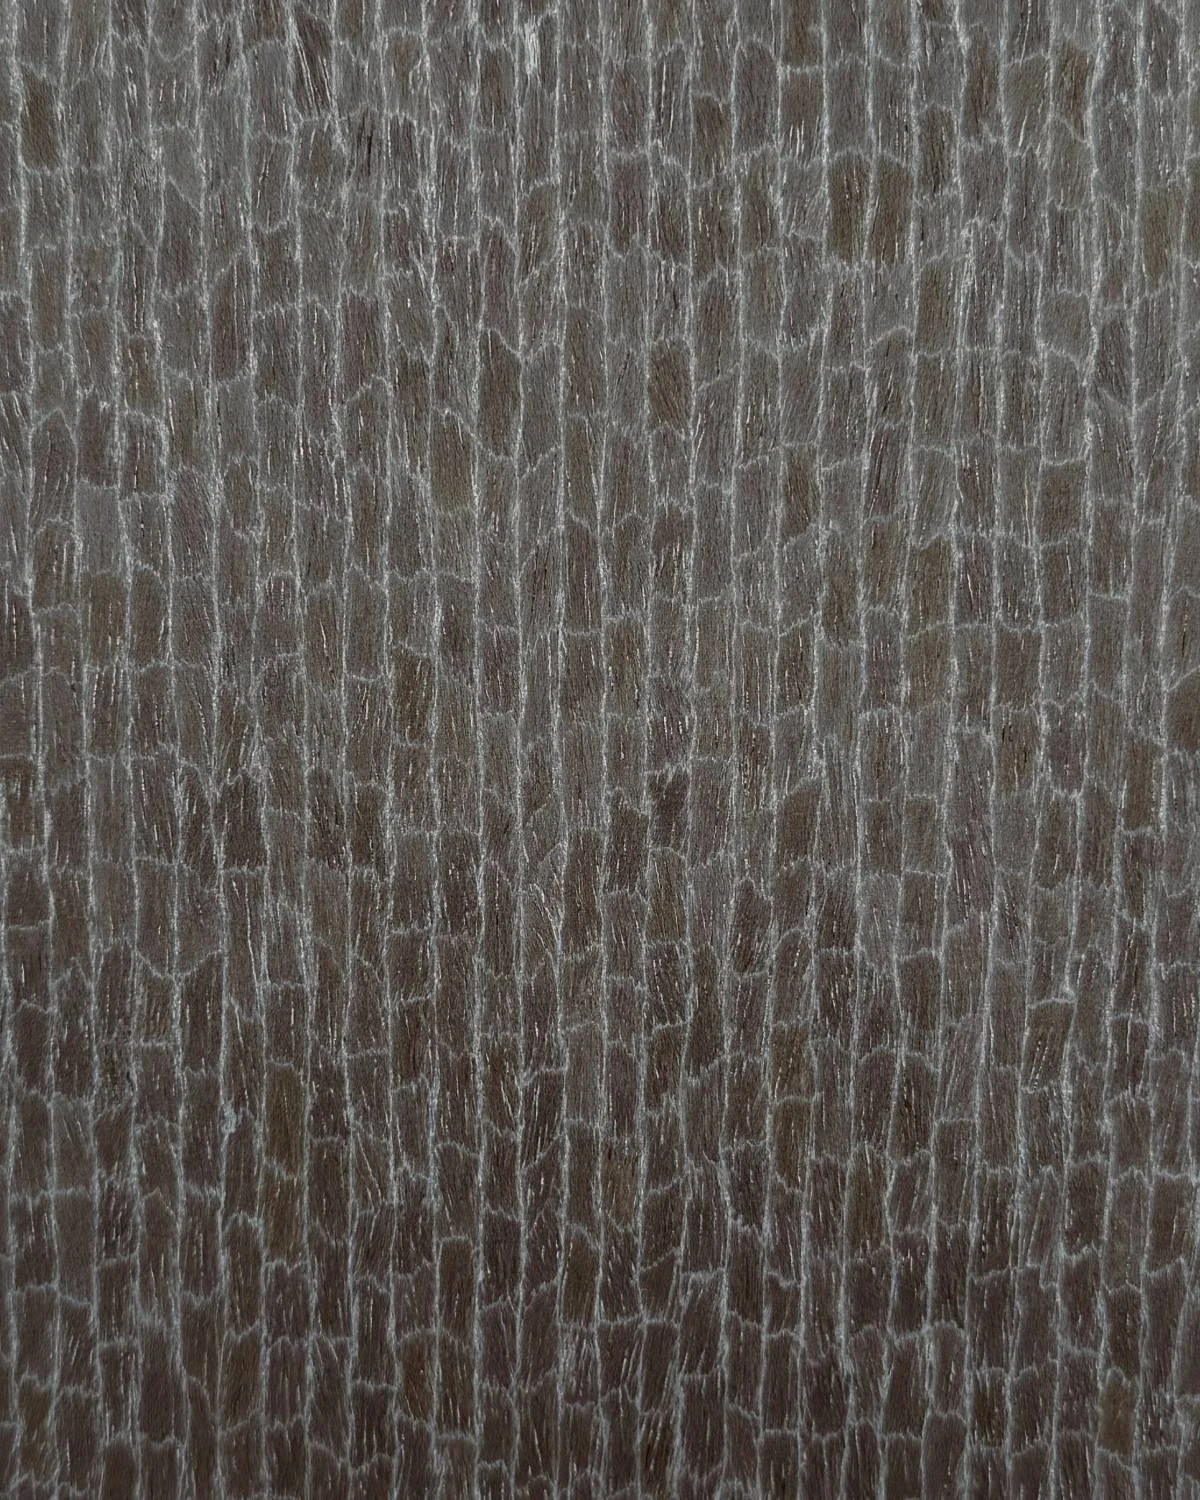
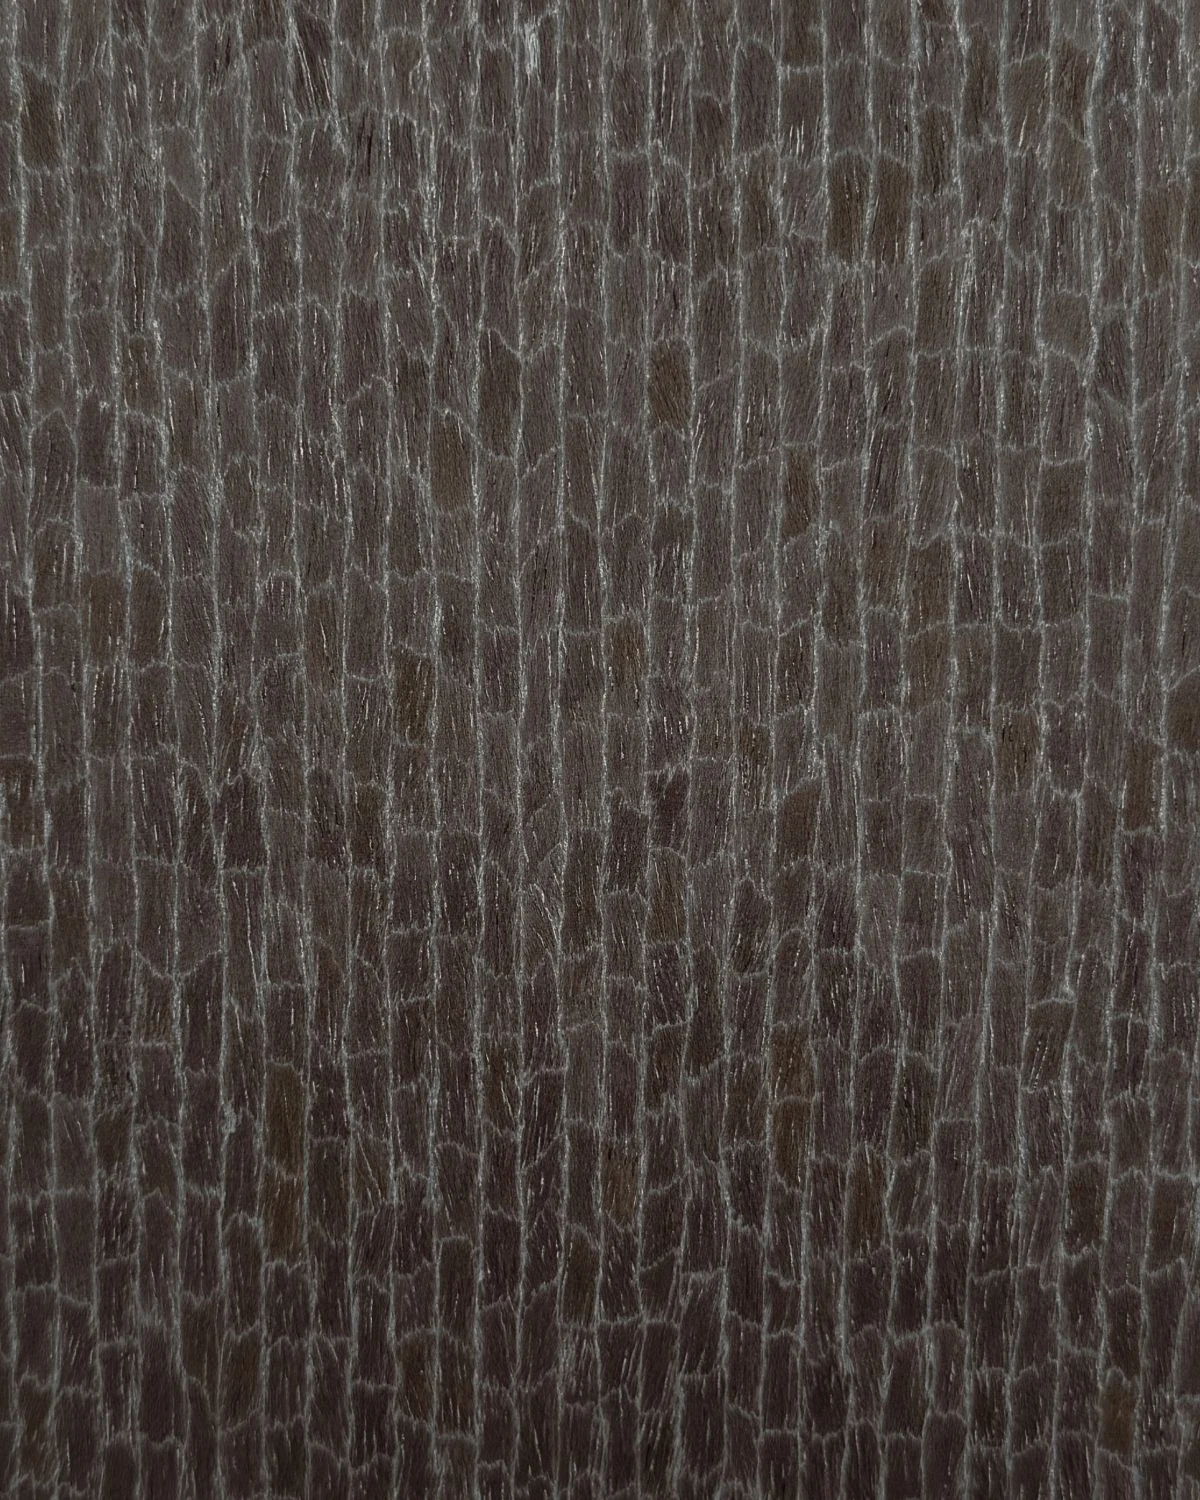
Use a darker edit for the Berlin Black Out swatch
The same shot as c03bfc8, edited darker and browner so the sheet reads
closer to its name. Cropped to 4:5 from the centre; the grain runs true
to vertical. The address moves to ?v=3 so browsers drop the lighter
picture.

diff --git a/src/data.js b/src/data.js
@@ -930,7 +930,7 @@ export const PRODUCTS = [
     species: 'Engineered Wood',
     idSpecies: 'Kayu Rekayasa',
     hiResImage: '/assets/hires/BERLIN BLACK OUT.png',
-    image: '/assets/image/BERLIN BLACK OUT.webp?v=2',
+    image: '/assets/image/BERLIN BLACK OUT.webp?v=3',
     bestFor: 'Bar fronts, dramatic accent walls, tactile focal points',
     idBestFor: 'muka bar, dinding aksen dramatis, titik fokus taktil',
     finish: 'Textured matte',
